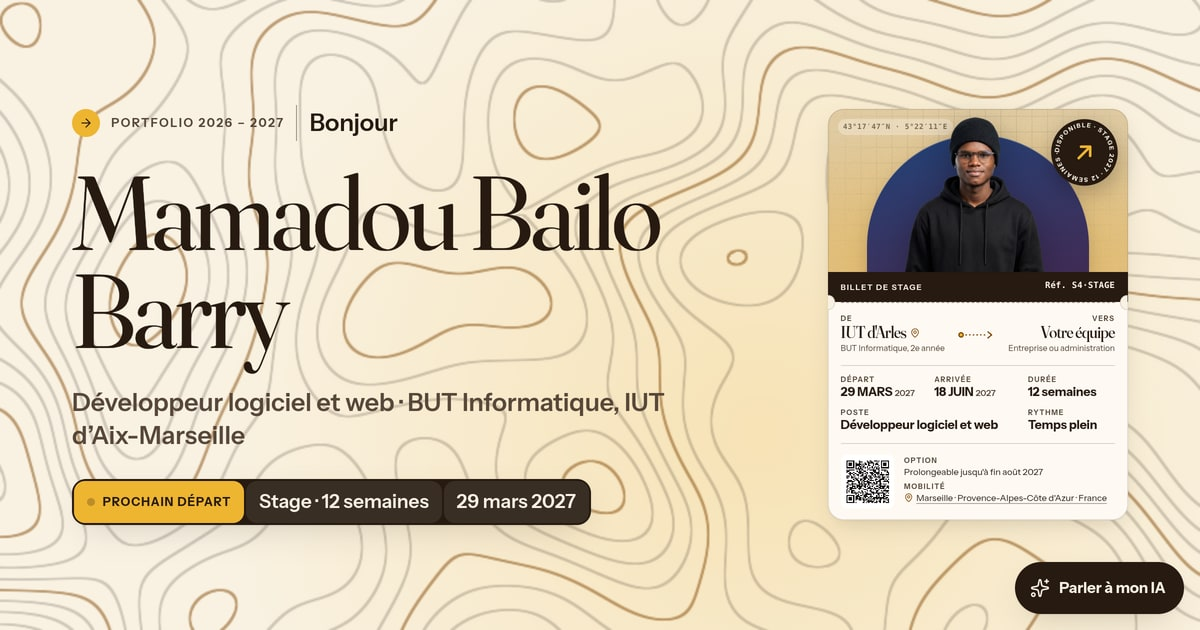
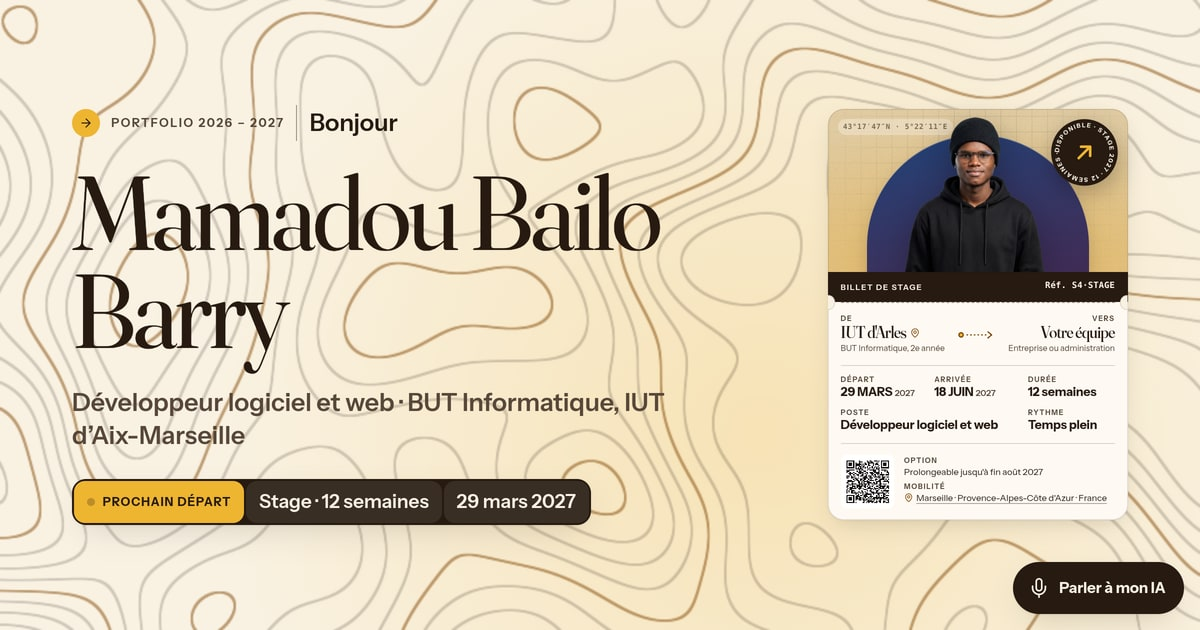
Prénoms seulement pour l'équipe Nebula, carte chargée au clic, icône micro pour l'assistant
Claude-Session: https://claude.ai/code/session_01KC96syTDh99D9E7j16QXSb

diff --git a/frontend/src/scripts/app.ts b/frontend/src/scripts/app.ts
@@ -260,12 +260,23 @@ function initialiserHorloge() {
 /* ------------------ Sélecteur de lieu sur la carte OpenStreetMap en pied de page */
 function initialiserCarteOsm() {
   const section = $<HTMLElement>('[data-loc]');
-  const iframe = $<HTMLIFrameElement>('[data-iframe-osm]', section ?? document);
-  if (!section || !iframe) return;
+  const fenetre = $<HTMLElement>('[data-fenetre-osm]', section ?? document);
+  if (!section || !fenetre) return;
 
   const boutons = $$<HTMLButtonElement>('[data-changer-carte]', section);
   const cartes = $$<HTMLElement>('[data-lieu-carte]', section);
   const lienDirect = $<HTMLAnchorElement>('[data-lien-osm-actif]', section);
+  const iframe = () => $<HTMLIFrameElement>('[data-iframe-osm]', fenetre);
+
+  // La carte n'est chargée qu'au clic (vie privée et rapidité).
+  $<HTMLButtonElement>('[data-charger-carte]', fenetre)?.addEventListener('click', (e) => {
+    const modele = $<HTMLTemplateElement>('[data-modele-iframe]', fenetre);
+    if (!modele) return;
+    const cadre = modele.content.firstElementChild!.cloneNode(true) as HTMLIFrameElement;
+    cadre.src = fenetre.dataset.embedActif ?? '';
+    (e.currentTarget as HTMLElement).replaceWith(cadre);
+    cadre.focus();
+  });
 
   section.addEventListener('click', (e) => {
     const btn = (e.target as Element).closest<HTMLButtonElement>('[data-changer-carte]');
@@ -273,7 +284,11 @@ function initialiserCarteOsm() {
     const lieu = btn.dataset.changerCarte;
     const embed = btn.dataset.embed;
     const osm = btn.dataset.osm;
-    if (embed && iframe.src !== embed) iframe.src = embed;
+    if (embed) {
+      fenetre.dataset.embedActif = embed;
+      const cadre = iframe();
+      if (cadre && cadre.src !== embed) cadre.src = embed;
+    }
     if (osm && lienDirect) lienDirect.href = osm;
     boutons.forEach((b) => b.setAttribute('aria-pressed', String(b.dataset.changerCarte === lieu)));
     cartes.forEach((c) => c.toggleAttribute('data-actif', c.dataset.lieuCarte === lieu));

diff --git a/frontend/src/data/projets.ts b/frontend/src/data/projets.ts
@@ -354,12 +354,12 @@ export const projets: Projet[] = [
       {
         image: devartStand,
         alt: {
-          fr: "La table de l'équipe <Nebula/> (Barry Mamadou Bailo, Camara Aminata Sita B, Nganji Aldo Alex, Toure Hiamou Djawad) pendant le hackathon Dev'Art 2026",
-          en: "Team <Nebula/>'s table (Barry Mamadou Bailo, Camara Aminata Sita B, Nganji Aldo Alex, Toure Hiamou Djawad) during the Dev'Art 2026 hackathon",
+          fr: "La table de l'équipe <Nebula/> (Mamadou, Aminata, Alex et Djawad) pendant le hackathon Dev'Art 2026",
+          en: "Team <Nebula/>'s table (Mamadou, Aminata, Alex and Djawad) during the Dev'Art 2026 hackathon",
         },
         legende: {
-          fr: 'Le stand <Nebula/> : Mamadou Bailo Barry, Aminata Camara, Aldo Alex Nganji et Djawad Touré.',
-          en: 'The <Nebula/> desk: Mamadou Bailo Barry, Aminata Camara, Aldo Alex Nganji and Djawad Touré.',
+          fr: 'Le stand <Nebula/> : Mamadou, Aminata, Alex et Djawad.',
+          en: 'The <Nebula/> desk: Mamadou, Aminata, Alex and Djawad.',
         },
       },
       {

diff --git a/frontend/src/i18n/ui.ts b/frontend/src/i18n/ui.ts
@@ -281,6 +281,11 @@ export const ui = {
     domicile: { fr: 'Domicile · Marseille', en: 'Home · Marseille' },
     campus: { fr: "Campus · IUT d'Arles", en: 'Campus · IUT Arles' },
     centrerCarte: { fr: 'Voir sur la carte', en: 'Center on map' },
+    afficherCarte: { fr: 'Afficher la carte', en: 'Show the map' },
+    noteCarte: {
+      fr: 'Elle se charge depuis openstreetmap.org.',
+      en: 'It loads from openstreetmap.org.',
+    },
     titreIframe: { fr: 'Carte interactive OpenStreetMap (Marseille et Arles)', en: 'Interactive OpenStreetMap (Marseille and Arles)' },
     ouvrirMaps: { fr: 'Google Maps', en: 'Google Maps' },
     ouvrirOsm: { fr: 'OpenStreetMap', en: 'OpenStreetMap' },
